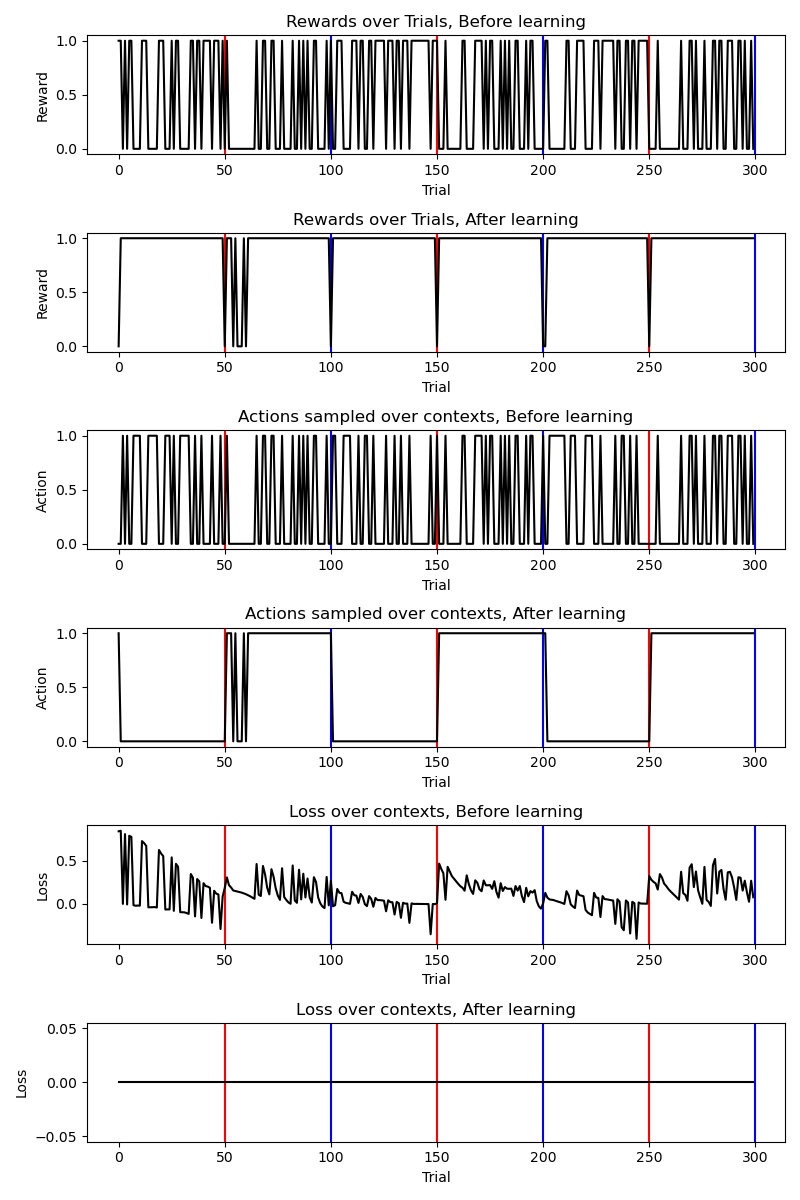
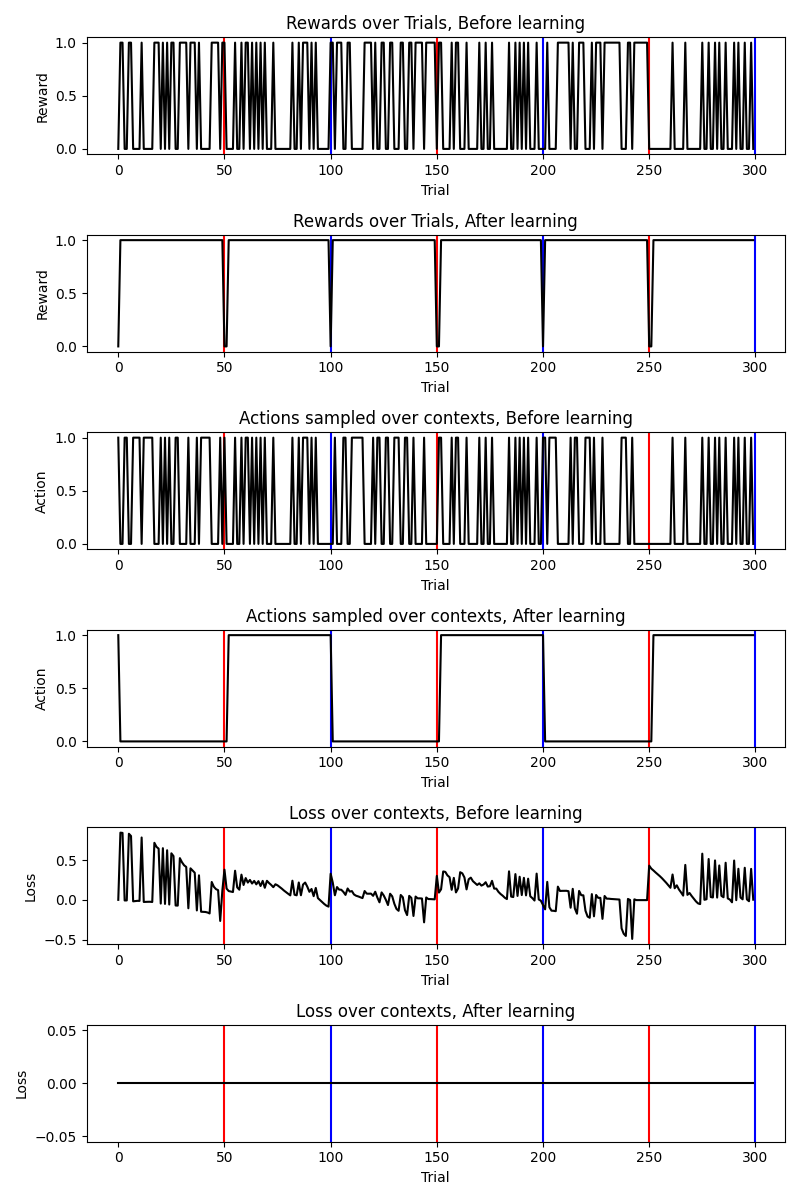
added PE x update chart. in progress on increasing action space

diff --git a/tasks.py b/tasks.py
@@ -6,13 +6,13 @@ import matplotlib.pyplot as plt
 
 
 class DiscretePredictiveInferenceEnv(gym.Env):
-    def __init__(self, condition="change-point"):
+    def __init__(self, num_actions, condition="change-point", ):
         super(DiscretePredictiveInferenceEnv, self).__init__()
         
-        self.action_space = spaces.Discrete(5)        
+        self.action_space = spaces.Discrete(num_actions)        
         # Observation: currentCurrent bucket position, last bag position, and prediction error
         self.observation_space = spaces.Box(low=np.array([0, 0, 0]), 
-                                            high=np.array([4, 4, 4]), dtype=np.float32)
+                                            high=np.full(3,num_actions), dtype=np.float32)
         
         # Initialize variables
         self.helicopter_pos = 2
@@ -48,25 +48,16 @@ class DiscretePredictiveInferenceEnv(gym.Env):
 
     def step(self, action):
         # Update bucket position based on action
-        if action == 0:
-            self.bucket_pos = 0
-        elif action == 1:
-            self.bucket_pos = 1
-        elif action == 2:
-            self.bucket_pos = 2
-        elif action == 3:
-            self.bucket_pos = 3
-        elif action == 4:
-            self.bucket_pos = 4
+        self.bucket_pos = action
         
         # Determine bag position based on task type
         if self.task_type == "change-point":
             if np.random.rand() < self.change_point_hazard:
-                self.helicopter_pos = np.random.randint(0, 4)
+                self.helicopter_pos = np.random.randint(0, (num_actions-1) )
             self.bag_pos = self._generate_bag_position()  # Bag follows the stable helicopter position
         else:  # "oddball"
             if np.random.rand() < self.oddball_hazard:
-                self.bag_pos = np.random.randint(0, 4)  # Oddball event
+                self.bag_pos = np.random.randint(0, (num_actions - 1) )  # Oddball event
             else:
                 self.bag_pos = self._generate_bag_position()
         
@@ -97,7 +88,7 @@ class DiscretePredictiveInferenceEnv(gym.Env):
         if self.helicopter_pos == 0:
             if np.random.rand() < 0.2:
                 bag_pos += 1
-        elif self.helicopter_pos == 4:
+        elif self.helicopter_pos == num_actions:
             if np.random.rand() < 0.2:
                 bag_pos -= 1
         else: # 1,2,3: 80% chance to stay, 10% move left, or 10% right
@@ -169,16 +160,19 @@ class ContinuousPredictiveInferenceEnv(gym.Env):
         return np.array([self.bucket_pos, self.bag_pos, self.bag_pos - self.bucket_pos], dtype=np.float32)
 
     def step(self, action):
-        # Update bucket position based on action
-        if action == 0:  # Move left
-            self.bucket_pos = max(0, self.bucket_pos - 30)
-        elif action == 1:  # Move right
-            self.bucket_pos = min(300, self.bucket_pos + 30)
+        #Update bucket position based on action (incrementally move left or right)
+        # if action == 0:  # Move left
+        #     self.bucket_pos = max(0, self.bucket_pos - 30)
+        # elif action == 1:  # Move right
+        #     self.bucket_pos = min(300, self.bucket_pos + 30)
+        #or update bucket position independently on action
+        self.bucket_pos = (action / 10 ) * 300
         
         # Determine bag position based on task type
         if self.task_type == "change-point":
             if np.random.rand() < self.change_point_hazard:
-                self.helicopter_pos = np.random.randint(0, 300)
+                self.rand_int = np.random.randint(0, 10)
+                self.helicopter_pos = self.rand_int / 10 * 300
             self.bag_pos = self._generate_bag_position()  # Bag follows the stable helicopter position
         else:  # "oddball"
             if np.random.rand() < self.oddball_hazard:
@@ -193,13 +187,15 @@ class ContinuousPredictiveInferenceEnv(gym.Env):
         self.helicopter_positions.append(self.helicopter_pos)
 
         # Calculate reward
-        reward = -abs(self.bag_pos - self.bucket_pos)
-        
+        reward = 1-abs(self.bag_pos - self.bucket_pos) #is this supposed to be "1 - PE"
+        # calc PE 
+        self.pred_error = abs(self.bag_pos - self.bucket_pos)
+
         # Increment trial count
         self.trial += 1
         
         # Compute the new observation
-        observation = np.array([self.bucket_pos, self.bag_pos, self.bag_pos - self.bucket_pos], dtype=np.float32)
+        observation = np.array([self.bucket_pos, self.bag_pos, self.pred_error], dtype=np.float32)
         
         # Determine if the episode should end (e.g., after 100 trials)
         done = self.trial >= self.total_trials

diff --git a/analysis.py b/analysis.py
@@ -1,5 +1,3 @@
-# code to analyze RNN dynamics
-# Veronica
 
 #%%
 #load data
@@ -7,6 +5,9 @@
 import numpy as np
 import scipy.stats as stats
 import matplotlib.pyplot as plt
+import jax
+import jax.numpy as jnp
+from jax import random, vmap
 
 #hardcode
 # Example LSTM activations (400 episodes, 50 epochs, 64 hidden units)
@@ -36,43 +37,54 @@ volatility_over_time = np.array([
 random_values = np.random.rand(window_size)
 volatility_over_time = np.concatenate((volatility_over_time, random_values))
 
-
-
 #%% 
-
+#calc proportion of significant hidden units over time
+#to-do: take out sig threshold for easier debugging
 
 proportions = []
+significance_threshold = .05
+
+def custom_linregress(x, y):
+    n = x.size
+    x_mean = jnp.mean(x)
+    y_mean = jnp.mean(y)
+    xy_cov = jnp.mean(x * y) - x_mean * y_mean
+    xx_cov = jnp.mean(x * x) - x_mean * x_mean
+
+    slope = xy_cov / xx_cov
+    intercept = y_mean - slope * x_mean
+    r_value = xy_cov / jnp.sqrt(xx_cov * (jnp.mean(y * y) - y_mean * y_mean))
+    p_value = 2 * (1 - jax.scipy.stats.norm.cdf(jnp.abs(r_value) * jnp.sqrt((n - 2) / (1 - r_value ** 2))))
+    std_err = jnp.sqrt((jnp.mean((y - (slope * x + intercept)) ** 2)) / (n - 2))
+
+    return slope, intercept, r_value, p_value, std_err
+
+def perform_regression(timepoint_volatility, unit_activation, threshold):
+    _, _, _, p_value, _ = custom_linregress(timepoint_volatility, unit_activation)
+    return p_value < threshold
+
+# Vectorize the perform_regression function to apply it to each hidden unit
+vectorized_regression = vmap(perform_regression, in_axes=(None, 0, None))
 
 # Perform regression for each time point
 for t in range(activations.shape[0]):
-    significant_units = 0
+    timepoint_volatility = volatility_over_time[t]
+    threshold = significance_threshold / activations.shape[1]
 
-  # Perform regression for each hidden unit at this time point
-    for unit in range(activations.shape[1]):
-        # Single timepoint data for regression (considering the deviation from the mean)
-        unit_activation = activations[t, unit]
-        timepoint_volatility = volatility_over_time[t]
-        
-        # Linear regression requires more than one data point, but for the purpose of this example, we're using single points.
-        slope, intercept, r_value, p_value, std_err = stats.linregress([timepoint_volatility], [unit_activation])
-        
-        # Bonferroni correction
-        threshold = 0.10 / activations.shape[1]
-        
-        # Check if this hidden unit is significant at this time point
-        if p_value < threshold:
-            significant_units += 1
-    
-    # Calculate the proportion of significant units at this time point
-    proportion_significant = significant_units / activations.shape[1]
-    proportions.append(proportion_significant)
+    # Apply the vectorized regression function to all hidden units at this time point
+    significant_units = jnp.sum(vectorized_regression(timepoint_volatility, activations[t], threshold))
+    proportions.append(significant_units / activations.shape[1])
+
+# Convert proportions to a NumPy array before saving
+proportions_np = np.array(proportions)
+np.save('data/proportions.npy', proportions_np)
 
 #%%
 # Plotting the results
 
 # Plot the proportion of significant hidden units over time
 plt.figure(figsize=(10, 6))
-plt.plot(range(len(proportions)), proportions, label='Proportion of Significant Hidden Units', color='red')
+plt.plot(range(len(proportions_np)), proportions_np, label='Proportion of Significant Hidden Units', color='red')
 plt.xlabel('Time')
 plt.ylabel('Proportion of Significant Units')
 plt.title('Proportion of Significant Hidden Units Over Time')
@@ -80,4 +92,7 @@ plt.grid(True)
 plt.legend()
 plt.show()
 
-# %%
+# Save the plot
+plt.savefig('plots/proportion_significant_units.png')
+
+

diff --git a/rnn_helicopter.py b/rnn_helicopter.py
@@ -19,7 +19,7 @@ num_trials = 200
 epoch_stop_training = 490
 num_context = 1
 obs_size = 3
-num_actions = 2
+num_actions = 10
 hidden_units = 64
 gamma = 0.95  # play around with different gamma between 0.0 to 0.99
 seed = 2024
@@ -40,7 +40,7 @@ def initialize_params(key):
 
     print('Input dimensions: ',n_input)
 
-    Wxh =random.normal(k1, (n_input, hidden_units)) /jnp.sqrt(n_input)
+    Wxh = random.normal(k1, (n_input, hidden_units)) /jnp.sqrt(n_input)
     Whh = random.normal(k2, (hidden_units, hidden_units)) /jnp.sqrt(hidden_units)
     Wha = random.normal(k3, (hidden_units, num_actions)) *1e-3
     Whc = random.normal(k4, (hidden_units, 1)) * 1e-3
@@ -107,7 +107,7 @@ def train(params, task_type,opt_state, prev_h, history, train_var):
     done = False
     reward = 0.0
     total_reward = 0
-    action = np.random.choice([0,1])
+    action = np.random.choice(range(num_actions))
     
     store_states = []
     store_h = []
@@ -171,6 +171,8 @@ def train(params, task_type,opt_state, prev_h, history, train_var):
 
     return params, history, prev_h, opt_state, total_reward, store_states, store_h
 
+print('Model initialized')
+
 #%%
 # Helicopter task
 # Initialize parameters & optimizer
@@ -187,11 +189,12 @@ store_states = []
 
 # Train the model
 for epoch in range(num_epochs):
-    if epoch < epoch_stop_training:
+    if epoch < epoch_stop_training: #to test no training non model
         train_var = True
     else:
         train_var = False
 
+    #switch for task_type in / alternating epochs
     for task_type in ["change-point"]:
 
         params, history, prev_h, opt_state, total_reward, store_s, store_h = train(params, task_type, opt_state, prev_h, history,train_var)
@@ -203,8 +206,12 @@ for epoch in range(num_epochs):
         store_states.append(store_s)
         store_rnn.append(store_h)
 
-np.save('data/activity_helicopter.npy', np.array(store_rnn)) # (400, 50, 64) 
-np.save('data/history_helicopter.npy', np.array(history)) # (20000, 3)
+
+np.save('data/activity_helicopter.npy', np.array(store_rnn)) # (400, 50, 64) #store_h
+np.save('data/history_helicopter.npy', np.array(history)) # (20000, 3) #reward, action, loss
+np.save('data/states_helicopter.npy'  , np.array(store_states)) # (400, 200, 4) #bucket, bag pos, PE, context, (reward, action) if feedback
+#np.save('data/params_helicopter.npy', np.array(store_params)) # (400, 4)
+print('Model trained and data saved')
 
 #%%
 window = 1

diff --git a/context_bandits.py b/context_bandits.py
@@ -1,5 +1,6 @@
 # code to run model
 # Ganesh, Adam
+#same as 
 
 #%%
 import jax
@@ -141,7 +142,7 @@ def train(params, context, reward_prob,opt_state, prev_h, history, train_var):
         rprob = reward_prob[np.argmax(action)]
         reward = np.random.choice([0, 1], p=[1 - rprob, rprob])
 
-        # update state
+        # update state (inputs into the RNN)
         next_state = np.array([0.0])
         if reward_feedback:
             next_state = np.concatenate([next_state, np.array([reward])])

diff --git a/main.py b/main.py
@@ -1,5 +1,6 @@
 # code to run model
 # Ganesh, Adam
+#two arm bandit no context given
 
 #%%
 import jax
